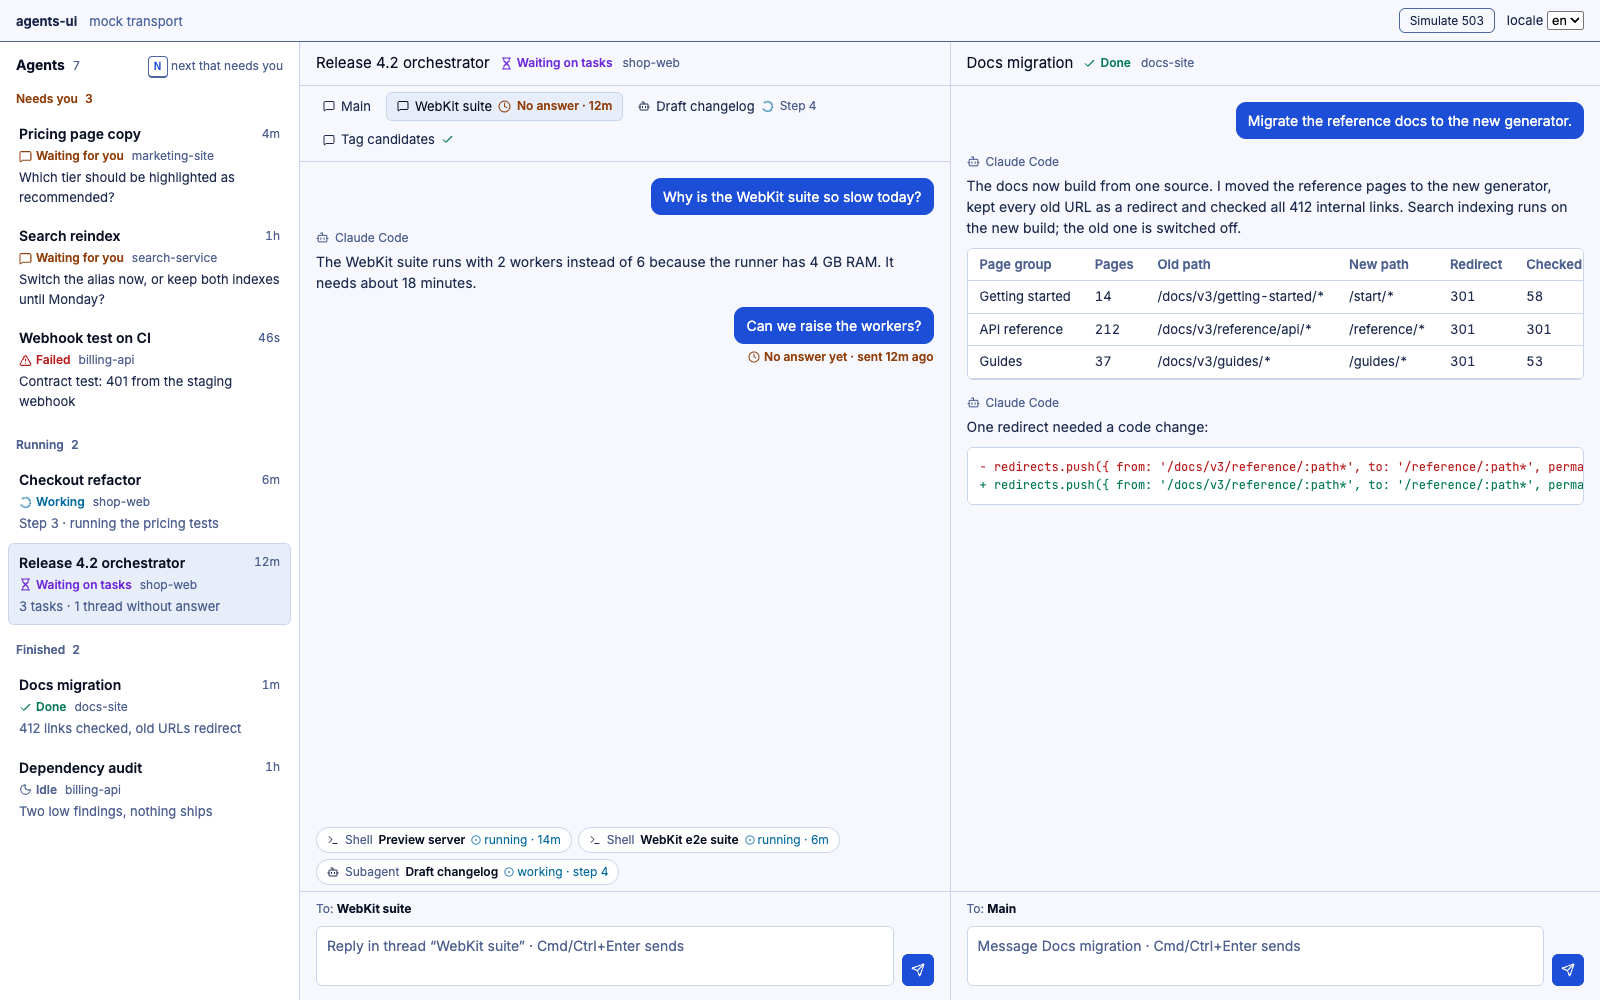
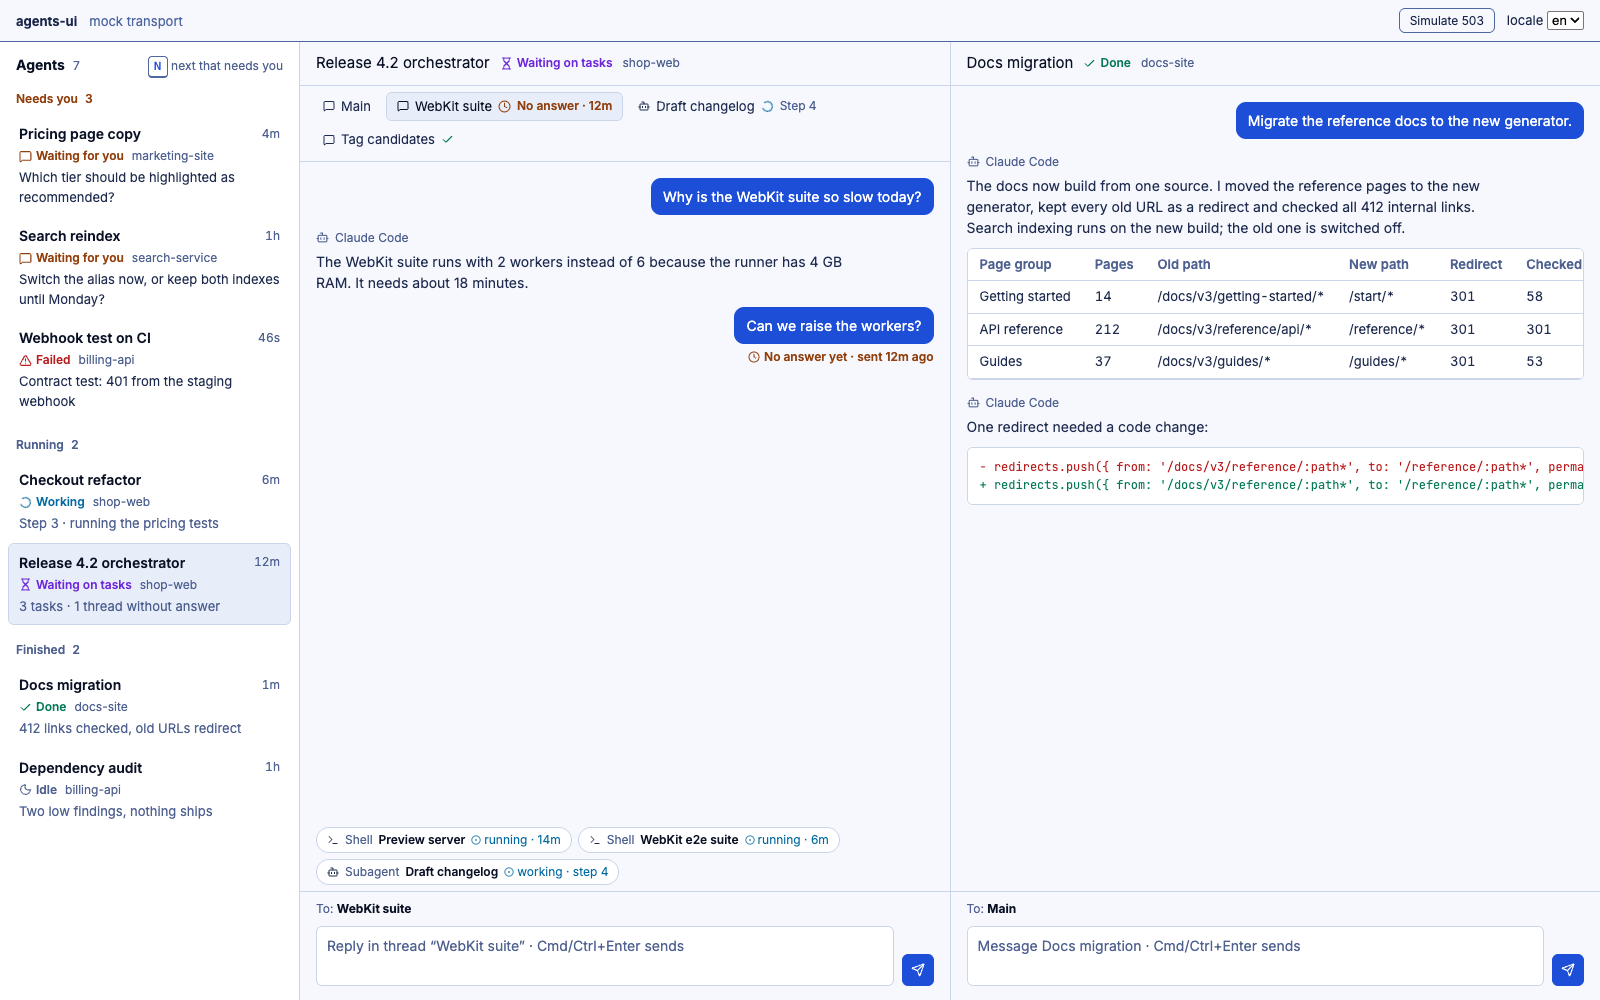
docs(agents): measured reading width, all display states, failed before-shot

Changed region(s): [[0.5938, 0.186, 0.9688, 0.248], [0.1875, 0.279, 0.3125, 0.31], [0.5312, 0.248, 0.5625, 0.279]]

diff --git a/docs/konzept-threads-status.md b/docs/konzept-threads-status.md
@@ -30,7 +30,7 @@ Prototyp: agents-ui `demo/prototype.tsx`, Start `npx vite demo --port 5611 --str
 | Wiedererkennen statt Erinnern | 2     | Rail-Zeilen von needs-input und failed zeigen weder Frage noch Grund (`before-01`)                                                   |
 | Effizienz                     | 3     | Tastatur vorhanden; kein „nächster, der mich braucht“                                                                                |
 | Ästhetik, Minimalismus        | 2     | Null-Zähler in der Leiste, ~40 px Leerraum pro Rail-Karte, Cloud-Block dauerhaft sichtbar                                            |
-| Fehler erkennen und beheben   | 1     | Failed = rotes ✻ + „46s“, kein Grund, keine Aktion                                                                                   |
+| Fehler erkennen und beheben   | 1     | Failed = rotes ✻ + „46s“ in der Rail, im Pane Kopf „ready“, kein Grund, keine Aktion (`before-10`)                                   |
 | Hilfe                         | 2     | Leerzustände helfen, Zustände/Glyphen sind nirgends erklärt                                                                          |
 
 Detector (`impeccable detect`): Quellcode Chat + AgentList 1 Fund (`gray-on-color`, `ChatThreads.tsx:528`, Fehlalarm: graue Schrift nur im disabled-Zustand auf grauem Grund). URL-Scan der Instanz scheiterte (Navigation-Timeout 30 s, vermutlich offene SSE/PTY-Verbindungen) – kein sauberes Ergebnis, nur Fehler. Konsole: nur der erwartete `502 /api/board/items` (kein GitHub in der Fixture).
@@ -57,17 +57,18 @@ Stärken, die bleiben: die Frage-Karte (Frage als Überschrift, Optionen mit Fol
 
 ### 3.2 Zustände und Herleitung
 
-| Ziel-Zustand         | Rail-Gruppe | heutige `displayState`        | Herleitung (Quelle)                                                                                                 |
-| -------------------- | ----------- | ----------------------------- | ------------------------------------------------------------------------------------------------------------------- |
-| **Waiting for you**  | Needs you   | `needs-input`                 | Job `blocked` oder Dialog auf dem Pane-Screen (`agentDialog.ts`); offen: Frage im Antworttext, siehe Entscheidung 3 |
-| **Failed**           | Needs you   | `failed`                      | Job `failed` / Fehler-Toolresult; Grund = letzte Fehlermeldung                                                      |
-| **Working**          | Running     | `working`                     | **ein Turn läuft** – Turn-Ende aus dem Transkript, nicht aus `tempo`                                                |
-| **Waiting on tasks** | Running     | `waiting`                     | Turn beendet, `inFlight.tasks > 0`; Text nennt Anzahl und Art                                                       |
-| **Done**             | Finished    | `completed`                   | Job `done`                                                                                                          |
-| **Idle**             | Finished    | `idle`, `stopped`             | kein Turn, keine Tasks, keine Frage                                                                                 |
-| (Verbindung)         | –           | `starting`, `unknown`/offline | eigene graue Zeile „Starting…“/„Offline“, kein Gruppenwechsel                                                       |
+| Ziel-Zustand         | Rail-Gruppe | heutige `displayState` | Herleitung (Quelle)                                                                                                 |
+| -------------------- | ----------- | ---------------------- | ------------------------------------------------------------------------------------------------------------------- |
+| **Waiting for you**  | Needs you   | `needs-input`          | Job `blocked` oder Dialog auf dem Pane-Screen (`agentDialog.ts`); offen: Frage im Antworttext, siehe Entscheidung 3 |
+| **Failed**           | Needs you   | `failed`               | Job `failed` / Fehler-Toolresult; Grund = letzte Fehlermeldung                                                      |
+| **Working**          | Running     | `working`              | **ein Turn läuft** – Turn-Ende aus dem Transkript, nicht aus `tempo`                                                |
+| **Waiting on tasks** | Running     | `waiting`              | Turn beendet, `inFlight.tasks > 0`; Text nennt Anzahl und Art                                                       |
+| **Done**             | Finished    | `completed`            | Job `done`                                                                                                          |
+| **Idle**             | Finished    | `idle`, `stopped`      | kein Turn, keine Tasks, keine Frage                                                                                 |
+| Looping              | Running     | `loop`                 | `/loop` aktiv; Zeile nennt Intervall und nächsten Lauf                                                              |
+| Interactive          | Finished    | `interactive`          | Sitzung außerhalb Orkumo, Aktivität unbekannt; graue Zeile „Interactive · activity unknown“                         |
 
-Die Korrektur der Statuslogik („working“ aus dem Turn-Ende statt aus dem Tempo, Schrittzähler wird bei jedem Turn-Start zurückgesetzt) liefert **ein anderer Agent** (Retro `retro-dauerbeschaeftigt.md`, Vorschläge 1 und 2; Fixture-Fälle in `test/fixtures/workingStates.js`). Dieses Konzept setzt sie voraus und baut nur die Darstellung darauf. Was darüber hinausgeht (Frage im Prosatext, unbeantwortete Thread-Nachricht als eigener Zustand), ist **nicht beschlossen** und steht als Entscheidung im Handoff.
+Die Korrektur der Statuslogik („working“ aus dem Turn-Ende statt aus dem Tempo, Schrittzähler wird bei jedem Turn-Start zurückgesetzt) liefert **ein anderer Agent** (Retro `retro-dauerbeschaeftigt.md`, Vorschläge 1 und 2; Fixture-Fälle in `test/fixtures/workingStates.js`). Dieses Konzept setzt sie voraus und baut nur die Darstellung darauf. Hinweis: dieser Agent hat seine Commits auf denselben Branch gelegt – Orkumo `7ef9a9f` (fix(agents): working only while a turn runs…), agents-ui `483fa69` (fix(chat): steps restart at every turn start…); nicht Teil dieses Konzepts, von mir nicht geprüft. Was darüber hinausgeht (Frage im Prosatext, unbeantwortete Thread-Nachricht als eigener Zustand), ist **nicht beschlossen** und steht als Entscheidung im Handoff.
 
 ### 3.3 Threads und Pills
 
@@ -83,10 +84,11 @@ Die Korrektur der Statuslogik („working“ aus dem Turn-Ende statt aus dem Tem
 
 ### 3.4 Lesebreite der Antwortkarten
 
-- Fließtext der Antwort max. **72ch**, linksbündig; Karte ohne Rahmen, Kopfzeile klein. Eigene Nachrichten rechts, max. 60ch.
+- Fließtext der Antwort max. **60ch im CSS ≈ 74 Zeichen pro Zeile** (Inter), linksbündig; Karte ohne Rahmen, Kopfzeile klein. Eigene Nachrichten rechts, max. 60ch.
+- Warum 60ch: `ch` ist die Breite der Ziffer 0; Inter-Fließtext ist schmaler, 72ch ergaben real ~91–95 Zeichen. Gemessen wird die echte Zeichenzahl pro gerenderter Zeile.
 - Tabellen, Code, Diffs dürfen bis **110ch** wachsen; breiter → horizontales Scrollen **im Block**, nie die Seite (gemessen: `scrollWidth === clientWidth` am Dokument in allen 22 Prototyp-Screens).
-- Gemessen im Prototyp: 72ch bei 1600/1920/1100 px, 70ch im Split-Pane (1600 px, zwei Panes).
-- Frage-Karte und Pill-Details folgen derselben 72ch-Kante.
+- Gemessen im Prototyp (lange Docs-Antwort, Zeichen ÷ Zeilen): ~74 Zeichen bei 1100 px, 1920 px maximiert und im Split-Pane (1600 px, zwei Panes); Ziel 70–80 eingehalten.
+- Frage-Karte, Fehlerkarte und Pill-Details folgen derselben Kante.
 
 ### 3.5 Issue-Ansicht: Repo-Köpfe (#327)
 
@@ -111,19 +113,19 @@ Geprüft an `src/components/Choice.tsx`, nicht am PR-Text:
 
 ## 4. Vorher / Nachher
 
-| Thema                   | Vorher                                                         | Nachher (Prototyp)                                                    |
-| ----------------------- | -------------------------------------------------------------- | --------------------------------------------------------------------- |
-| Rail                    | `before-01-rail.png`                                           | `after/01-needs-you-{dark,light}.png`                                 |
-| Frage auffinden         | `before-02-question-card.png`                                  | `after/01-needs-you-*` (Frage in Zeile + über Composer, Choice-Pills) |
-| Frage nur im Text       | `before-05-prose-question-idle.png`                            | `after/02-prose-question-*` („from the answer text“)                  |
-| Failed                  | nur rotes ✻ (`before-01`)                                      | `after/03-failed-*` (Grund, Show log, Retry)                          |
-| Falsches working        | `before-03-false-working.png`                                  | `after/04-waiting-on-tasks-*`                                         |
-| Thread-Fehlrouting      | `before-04-thread-misroute.png`, `before-09-max-threads.png`   | `after/05-unanswered-thread-*`                                        |
-| Subagent als Thread     | –                                                              | `after/06-subagent-thread-*`                                          |
-| Pills                   | `before-03` (Chips)                                            | `after/07-pill-open-*`                                                |
-| Lesebreite maximiert    | `before-06-max-reading-width.png`                              | `after/08-reading-max-*`                                              |
-| Lesebreite schmal/Split | `before-07-narrow-reading.png`, `before-08-narrow-threads.png` | `after/09-reading-split-*`, `after/10-narrow-*`                       |
-| Working                 | –                                                              | `after/11-working-*`                                                  |
+| Thema                   | Vorher                                                               | Nachher (Prototyp)                                                    |
+| ----------------------- | -------------------------------------------------------------------- | --------------------------------------------------------------------- |
+| Rail                    | `before-01-rail.png`                                                 | `after/01-needs-you-{dark,light}.png`                                 |
+| Frage auffinden         | `before-02-question-card.png`                                        | `after/01-needs-you-*` (Frage in Zeile + über Composer, Choice-Pills) |
+| Frage nur im Text       | `before-05-prose-question-idle.png`                                  | `after/02-prose-question-*` („from the answer text“)                  |
+| Failed                  | `before-10-failed.png` (Pane-Kopf „ready“, kein Grund, keine Aktion) | `after/03-failed-*` (Grund, Show log, Retry)                          |
+| Falsches working        | `before-03-false-working.png`                                        | `after/04-waiting-on-tasks-*`                                         |
+| Thread-Fehlrouting      | `before-04-thread-misroute.png`, `before-09-max-threads.png`         | `after/05-unanswered-thread-*`                                        |
+| Subagent als Thread     | –                                                                    | `after/06-subagent-thread-*`                                          |
+| Pills                   | `before-03` (Chips)                                                  | `after/07-pill-open-*`                                                |
+| Lesebreite maximiert    | `before-06-max-reading-width.png`                                    | `after/08-reading-max-*`                                              |
+| Lesebreite schmal/Split | `before-07-narrow-reading.png`, `before-08-narrow-threads.png`       | `after/09-reading-split-*`, `after/10-narrow-*`                       |
+| Working                 | –                                                                    | `after/11-working-*`                                                  |
 
 Alle Bilder unter `briefings/assets/threads-status/`.
 
@@ -131,5 +133,5 @@ Alle Bilder unter `briefings/assets/threads-status/`.
 
 - **Mode:** Operate. Klarheit vor Ausdruck; Marke steckt in Präzision (Vokabular, Kanten, Zustände).
 - **Umfang erste Stufe:** Rail-Gruppen + Zeilentext, Zustandsvokabular, Pane-Kopf, Lesebreite, Composer-Ziel, Pills mit Art/Status. Zweite Stufe: Thread-Tabs statt Thread-Panel, Subagent-Threads, „No answer“-Erkennung. Dritte: #327, Choice-Schwelle, App-`DESIGN.md`, helles Theme.
-- **Annahmen (aus dem Briefing abgeleitet, nicht bestätigt):** A1 Hape arbeitet überwiegend dunkel, helles Theme ist Wunsch, kein Muss. A2 Projekt-Gruppierung ist verzichtbar, wenn Projekt-Tag + Filter bleiben. A3 „No answer“ ab sofort nach dem Senden, Hervorhebung ab 5 min. A4 72ch passt auch für Deutsch.
+- **Annahmen (aus dem Briefing abgeleitet, nicht bestätigt):** A1 Hape arbeitet überwiegend dunkel, helles Theme ist Wunsch, kein Muss. A2 Projekt-Gruppierung ist verzichtbar, wenn Projekt-Tag + Filter bleiben. A3 „No answer“ ab sofort nach dem Senden, Hervorhebung ab 5 min. A4 ~74 Zeichen pro Zeile passen auch für Deutsch.
 - **Nicht im Umfang:** Statuslogik selbst (anderer Agent), Terminal-Ansicht, Board.
